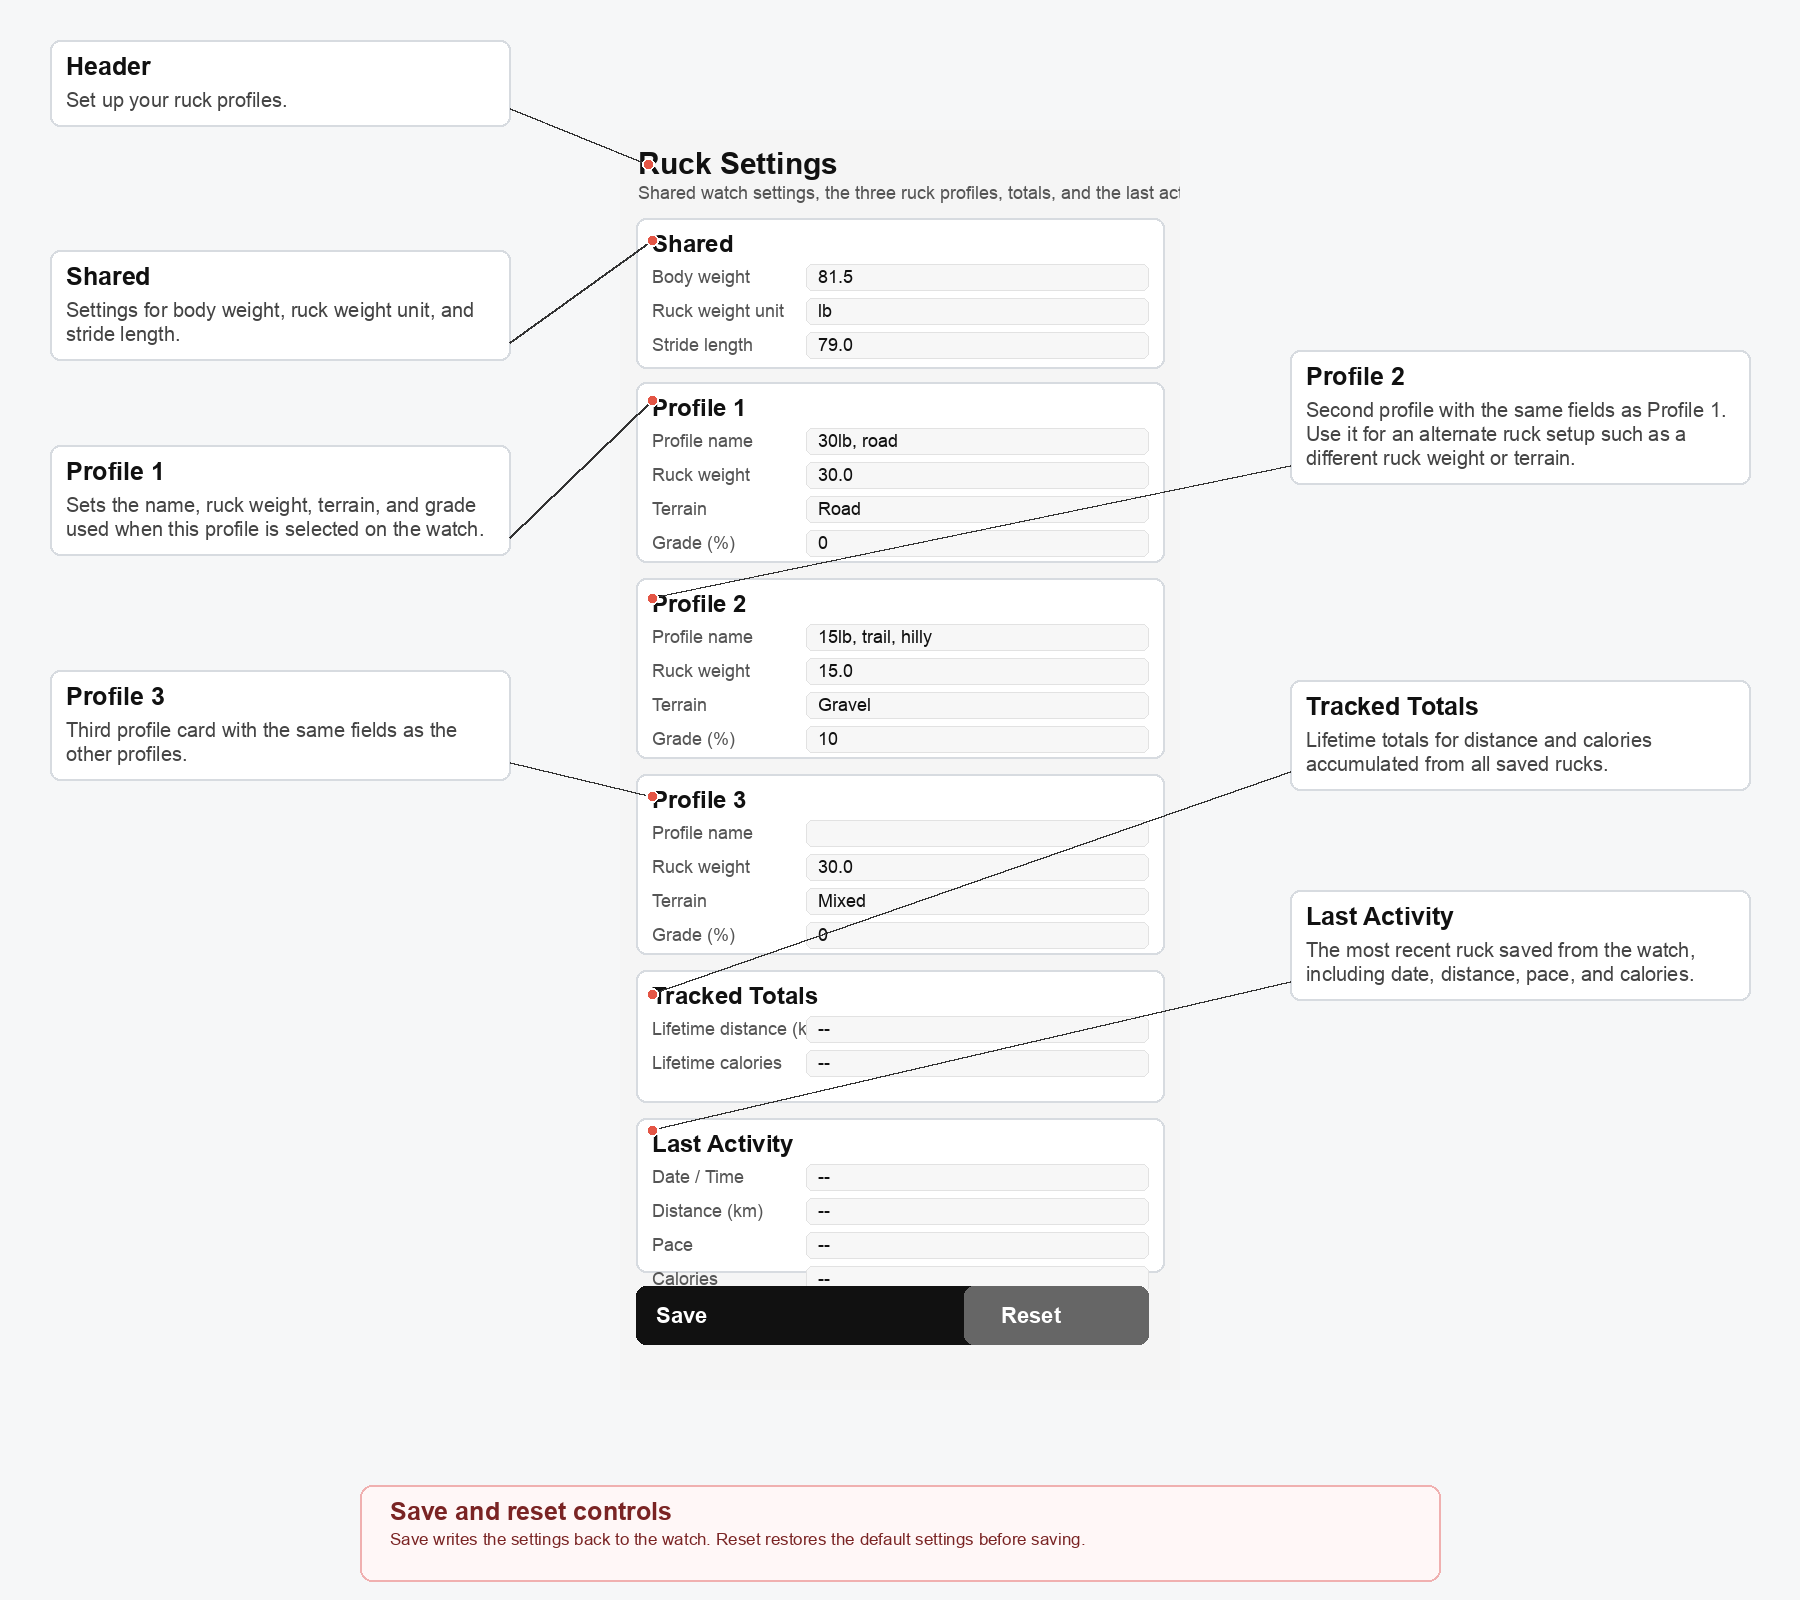
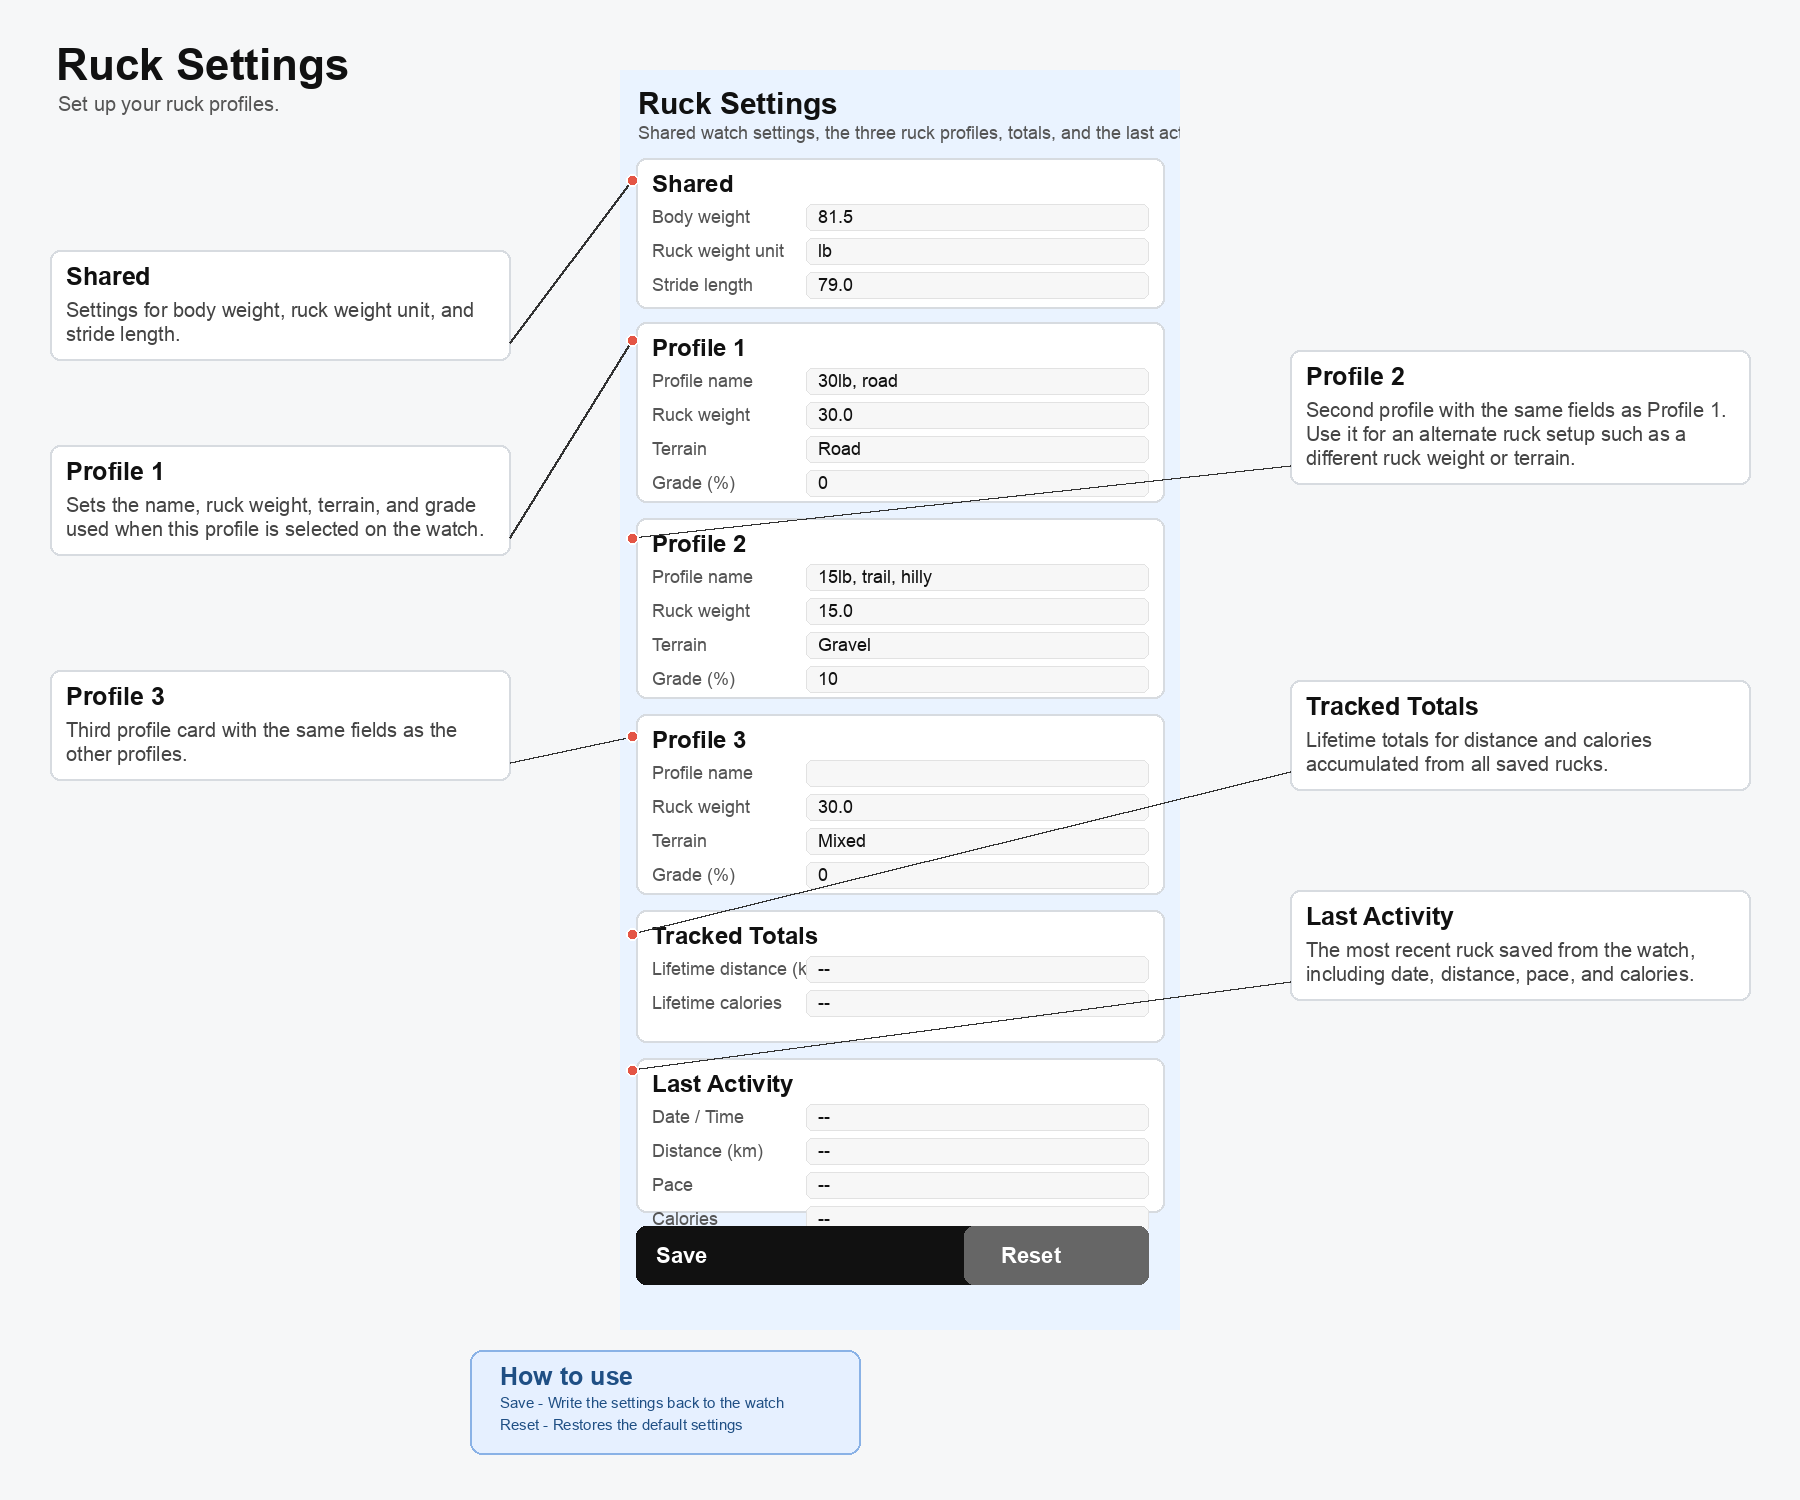
update explainer screenshots

diff --git a/ruckpebble/resources/create_screenshots.py b/ruckpebble/resources/create_screenshots.py
@@ -8,32 +8,31 @@ from PIL import Image, ImageDraw, ImageFont
 
 SCREEN_LAYOUTS = {
     "profile": {
-        "canvas_size": (1500, 1000),
+        "canvas_size": (1500, 920),
         "sections": {
             "Profiles": {"anchor": (34, 86), "box": (50, 175, 405), "side": "left"},
         },
-        "footer_box": (270, 884, 1230, 964),
+        "footer_box": (370, 345, 760, 427),
     },
     "tracking": {
-        "canvas_size": (1500, 1000),
+        "canvas_size": (1500, 920),
         "sections": {
             "Active Profile": {"anchor": (34, 18), "box": (50, 175, 405), "side": "left"},
-            "Current Pace": {"anchor": (42, 56), "box": (50, 338, 405), "side": "left"},
-            "Pace": {"anchor": (60, 100), "box": (50, 500, 405), "side": "left"},
+            "Session Pace": {"anchor": (42, 56), "box": (50, 338, 430), "side": "left"},
+            "Current Pace": {"anchor": (60, 100), "box": (50, 500, 430), "side": "left"},
             "Steps": {"anchor": (58, 188), "box": (50, 675, 405), "side": "left"},
             "Watch Time": {"anchor": (172, 20), "box": (1045, 175, 405), "side": "right"},
             "Distance": {"anchor": (164, 56), "box": (1045, 338, 405), "side": "right"},
-            "Heart Rate": {"anchor": (102, 104), "box": (1045, 500, 405), "side": "right"},
-            "Elapsed Time": {"anchor": (154, 104), "box": (1045, 620, 405), "side": "right"},
+            "Elapsed Time": {"anchor": (154, 104), "box": (1045, 500, 405), "side": "right"},
+            "Heart Rate": {"anchor": (102, 104), "box": (1045, 620, 405), "side": "right"},
             "Calories": {"anchor": (152, 188), "box": (1045, 760, 405), "side": "right"},
         },
-        "footer_box": (270, 884, 1230, 964),
+        "footer_box": (300, 440, 920, 522),
     },
     "settings": {
-        "canvas_size": (1800, 1600),
-        "mock_box": (620, 130, 560, 1260),
+        "canvas_size": (1800, 1500),
+        "mock_box": (620, 70, 560, 1260),
         "sections": {
-            "Header": {"anchor": (28, 34), "box": (50, 40, 460), "side": "left"},
             "Shared": {"anchor": (32, 110), "box": (50, 250, 460), "side": "left"},
             "Profile 1": {"anchor": (32, 270), "box": (50, 445, 460), "side": "left"},
             "Profile 2": {"anchor": (32, 468), "box": (1290, 350, 460), "side": "right"},
@@ -41,7 +40,7 @@ SCREEN_LAYOUTS = {
             "Tracked Totals": {"anchor": (32, 864), "box": (1290, 680, 460), "side": "right"},
             "Last Activity": {"anchor": (32, 1000), "box": (1290, 890, 460), "side": "right"},
         },
-        "footer_box": (360, 1485, 1440, 1581),
+        "footer_box": (470, 1350, 860, 1428),
     },
 }
 
@@ -104,37 +103,43 @@ def parse_document(text):
             current_key = key
             continue
         if current_section and current_key:
-            doc["sections"][current_section][current_key] += " " + line
+            doc["sections"][current_section][current_key] += "\n" + line
     return doc
 
 
 def wrap_text(draw, text, font, width):
-    words = text.split()
     lines = []
-    current = ""
-    for word in words:
-        candidate = f"{current} {word}".strip()
-        if draw.textlength(candidate, font=font) <= width:
-            current = candidate
-        else:
-            if current:
-                lines.append(current)
-            current = word
-    if current:
-        lines.append(current)
+    if not text:
+        return lines
+    for paragraph in text.splitlines():
+        if not paragraph.strip():
+            lines.append("")
+            continue
+        words = paragraph.split()
+        current = ""
+        for word in words:
+            candidate = f"{current} {word}".strip()
+            if draw.textlength(candidate, font=font) <= width:
+                current = candidate
+            else:
+                if current:
+                    lines.append(current)
+                current = word
+        if current:
+            lines.append(current)
     return lines
 
 
-def render_callout(draw, title_font, body_font, box, title, body):
+def render_callout(draw, title_font, body_font, box, title, body, fill="#ffffff", outline="#d7dbe0", title_color="#111111", body_color="#444444"):
     bx, by, bw = box
     padding = 16
     lines = wrap_text(draw, body, body_font, bw - padding * 2)
     height = padding * 2 + 30 + len(lines) * 24
-    draw.rounded_rectangle((bx, by, bx + bw, by + height), radius=10, fill="#ffffff", outline="#d7dbe0", width=2)
-    draw.text((bx + padding, by + 12), title, fill="#111111", font=title_font)
+    draw.rounded_rectangle((bx, by, bx + bw, by + height), radius=10, fill=fill, outline=outline, width=2)
+    draw.text((bx + padding, by + 12), title, fill=title_color, font=title_font)
     yy = by + 48
     for line in lines:
-        draw.text((bx + padding, yy), line, fill="#444444", font=body_font)
+        draw.text((bx + padding, yy), line, fill=body_color, font=body_font)
         yy += 24
     return height
 
@@ -149,7 +154,7 @@ def draw_anchor(draw, point, accent="#e45545"):
     draw.ellipse((x - r, y - r, x + r, y + r), fill=accent, outline="white", width=2)
 
 
-def place_watch(canvas, screenshot, scale=2.4, top=185):
+def place_watch(canvas, screenshot, scale=0.72, top=150):
     watch = Image.open(screenshot).convert("RGB")
     watch = watch.resize((int(watch.width * scale), int(watch.height * scale)), Image.Resampling.NEAREST)
     wx = (canvas.width - watch.width) // 2
@@ -179,7 +184,7 @@ def draw_mock_card(draw, box, title, lines, fill="#ffffff", outline="#d7dbe0"):
 
 def place_settings_mock(canvas, layout):
     x, y, w, h = layout["mock_box"]
-    page = Image.new("RGB", (w, h), "#f5f5f5")
+    page = Image.new("RGB", (w, h), "#eaf3ff")
     draw = ImageDraw.Draw(page)
     title_font = load_font(30, True)
     subtitle_font = load_font(18)
@@ -247,7 +252,7 @@ def render_screen(doc, screenshot_path, output_path):
     f_subtitle = load_font(20)
     f_box_title = load_font(25, True)
     f_box_body = load_font(20)
-    f_footer = load_font(17)
+    f_footer = load_font(15)
 
     header = doc["sections"].get("Header", {})
     draw.text((56, 40), header.get("title", doc["title"]), fill="#111111", font=f_title)
@@ -263,14 +268,16 @@ def render_screen(doc, screenshot_path, output_path):
         wx, wy, watch_w, watch_h = place_settings_mock(canvas, layout)
 
         def to_canvas_point(point):
-            return (wx + int(point[0]), wy + int(point[1]))
+            return (wx + int(point[0]) - 20, wy + int(point[1]))
     else:
         wx, wy, watch_w, watch_h = place_watch(canvas, screenshot_path)
 
         def to_canvas_point(point):
-            return (wx + int(point[0] * 2.4), wy + int(point[1] * 2.4))
+            return (wx + int(point[0]), wy + int(point[1]))
 
     for section_name, section_layout in layout["sections"].items():
+        if screen_key == "settings" and section_name == "Header":
+            continue
         section = doc["sections"].get(section_name, {})
         body = section.get("description", "")
         if not body and section_name == "Header":
@@ -294,12 +301,12 @@ def render_screen(doc, screenshot_path, output_path):
     footer_lines = wrap_text(draw, footer_subtitle, f_footer, bw - 60) if footer_subtitle else []
     footer_height = 56 + max(1, len(footer_lines)) * 24
     footer_box = (bx, by, bw, max(bh, by + footer_height))
-    draw.rounded_rectangle(footer_box, radius=12, fill="#fff7f7", outline="#f0b0b0", width=2)
-    draw.text((bx + 30, by + 12), footer.get("title", ""), fill="#7a2424", font=f_box_title)
+    draw.rounded_rectangle(footer_box, radius=12, fill="#e6f0ff", outline="#8ab2e6", width=2)
+    draw.text((bx + 30, by + 12), footer.get("title", ""), fill="#1f4f84", font=f_box_title)
     if footer_lines:
         yy = by + 44
         for line in footer_lines:
-            draw.text((bx + 30, yy), line, fill="#7a2424", font=f_footer)
+            draw.text((bx + 30, yy), line, fill="#1f4f84", font=f_footer)
             yy += 22
 
     output_path.parent.mkdir(parents=True, exist_ok=True)
@@ -325,7 +332,7 @@ def main():
     parser.add_argument("--profile-screenshot", default="/tmp/ruck_profile.png")
     parser.add_argument("--tracking-screenshot", default="/tmp/ruck_tracking_raw.png")
     parser.add_argument("--settings-screenshot", default=None)
-    parser.add_argument("--output-dir", default=str(Path(__file__).parent))
+    parser.add_argument("--output-dir", default=str(Path(__file__).with_name("explainer_screenshots")))
     args = parser.parse_args()
 
     docs = parse_documents(Path(args.spec))

diff --git a/ruckpebble/resources/screenshot_descriptions.md b/ruckpebble/resources/screenshot_descriptions.md
@@ -1,16 +1,18 @@
 # Profile Screen
 ## Header
 - title: Profile Selection
-- subtitle: You'll use more calories depending on the weight of your ruck, the terrain you're moving across and the gradient of your ruck.
+- subtitle: You'll use more calories depending on the weight of your ruck,
+            the terrain you're moving across and the gradient of your ruck.
             Select a profile which matches today's ruck.
 
 ## Profiles
-- description: You can define up to three profiles which define ruck weight, terrain and gradient. They'll impact the number of calories burnt when rucking
-  Select one of them here.
+- description: You can define up to three profiles which define ruck weight, terrain and gradient.
+            They'll impact the number of calories burnt when rucking.
+            Select one of them here.
 
 ## Footer
 - title: How to use
-- subtitle: Up and Down - Move between profiles       
+- subtitle: Up and Down - Move between profiles
             Select - Start ruck with the highlighted profile
             Back - Exit to Pebble menu
 
@@ -24,11 +26,11 @@
 ## Active Profile
 - description: Name of the profile selected on the profile screen.
 
-## Current Pace
-- description: Live pace per kilometre or mile.
+## Session Pace
+- description: Overall pace for the session per kilometre or mile.
 
-## Pace
-- description: Large pace readout for the current session, repeated for scanability while moving.
+## Current Pace
+- description: Current pace per kilometre or mile.
 
 ## Steps
 - description: The first line shows steps for the current ruck session. The second line shows total steps for today.
@@ -51,7 +53,7 @@
 ## Footer
 - title: How to use
 - subtitle: Up: Music
-            Down: Saves the current ruck session creates a timeline pin.
+            Down: Saves the current ruck session and creates a timeline pin.
             Back: Gives a choice between resuming current session and discarding it.
 
 ---
@@ -81,5 +83,5 @@
 
 ## Footer
 - title: How to use
-- subtitle: Save - Write the settings back to the watch 
+- subtitle: Save - Write the settings back to the watch
             Reset - Restores the default settings
